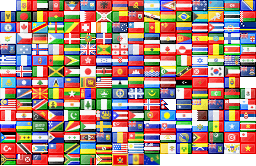
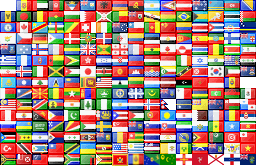
LAS-966 add missing countries

Changed region(s): [[0.625, 0.9036, 1.0, 0.994]]

diff --git a/src/styles.less b/src/styles.less
@@ -31,6 +31,9 @@
   &.am {
     background-position: -112px 0;
   }
+  &.an {
+    background-position: -224px -154px;
+  }
   &.ao {
     background-position: -128px 0;
   }
@@ -108,6 +111,9 @@
   }
   &.ca {
     background-position: -16px -22px;
+  }
+  &.cc {
+    background-position: -160px -154px;
   }
   &.cd {
     background-position: -32px -22px;
@@ -211,7 +217,9 @@
   &.fo {
     background-position: -32px -44px;
   }
-  &.fr, &.bl, &.mf {
+  &.fr,
+  &.bl,
+  &.mf {
     background-position: -48px -44px;
   }
   &.ga {
@@ -228,6 +236,9 @@
   }
   &.gf {
     background-position: -128px -44px;
+  }
+  &.gg {
+    background-position: -176px -154px;
   }
   &.gh {
     background-position: -144px -44px;
@@ -304,11 +315,17 @@
   &.is {
     background-position: -16px -66px;
   }
+  &.im {
+    background-position: -192px -154px;
+  }
   &.it {
     background-position: -32px -66px;
   }
   &.jm {
     background-position: -48px -66px;
+  }
+  &.je {
+    background-position: -208px -154px;
   }
   &.jo {
     background-position: -64px -66px;
@@ -467,7 +484,8 @@
   &.ni {
     background-position: -112px -99px;
   }
-  &.nl, &.bq {
+  &.nl,
+  &.bq {
     background-position: -128px -99px;
   }
   &.no {
@@ -511,6 +529,9 @@
   }
   &.pm {
     background-position: -96px -110px;
+  }
+  &.pn {
+    background-position: -240px -154px;
   }
   &.pr {
     background-position: -112px -110px;
@@ -704,5 +725,4 @@
   &.zw {
     background-position: -96px -154px;
   }
-
 }

diff --git a/src/country_data.js b/src/country_data.js
@@ -273,6 +273,12 @@ const rawAllCountries = [
     '1345',
   ],
   [
+    'Cocos Islands',
+    ['asia'],
+    'cc',
+    '61'
+  ],
+  [
     'Central African Republic',
     ['africa'],
     'cf',
@@ -571,6 +577,12 @@ const rawAllCountries = [
     '+... ....-....',
   ],
   [
+    'Guernsey',
+    ['europe'],
+    'gg',
+    '44'
+  ],
+  [
     'Guinea',
     ['africa'],
     'gn',
@@ -661,6 +673,12 @@ const rawAllCountries = [
     '+... ... ... ....',
   ],
   [
+    'Isle of Man',
+    ['europe'],
+    'im',
+    '44'
+  ],
+  [
     'Italy',
     ['europe', 'european-union'],
     'it',
@@ -680,6 +698,12 @@ const rawAllCountries = [
     'jp',
     '81',
     '+.. .. .... ....',
+  ],
+  [
+    'Jersey',
+    ['europe'],
+    'je',
+    '44'
   ],
   [
     'Jordan',
@@ -934,6 +958,12 @@ const rawAllCountries = [
     '+.. .. ........',
   ],
   [
+    'Netherlands Antilles',
+    ['europe'],
+    'an',
+    '599'
+  ],
+  [
     'New Caledonia',
     ['oceania'],
     'nc',
@@ -1050,6 +1080,12 @@ const rawAllCountries = [
     'ph',
     '63',
     '+.. .... .......',
+  ],
+  [
+    'Pitcairn Islands',
+    ['oceania'],
+    'pn',
+    '64'
   ],
   [
     'Poland',
